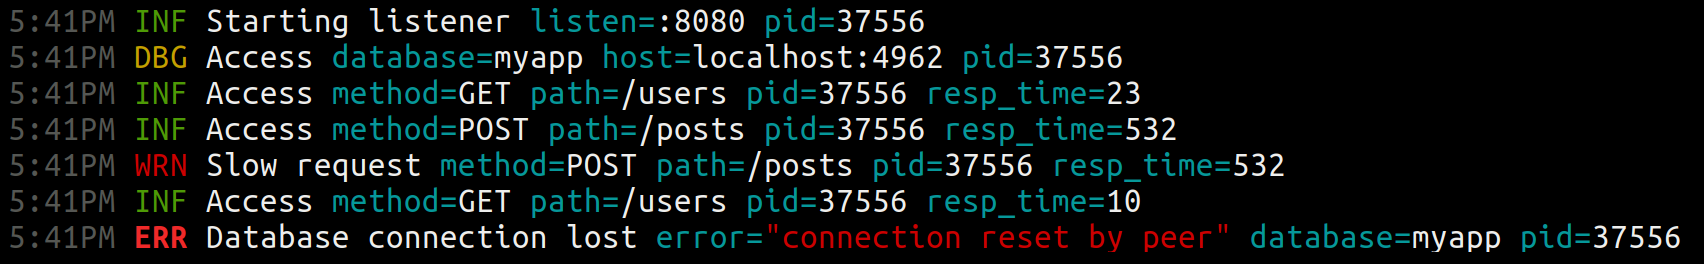
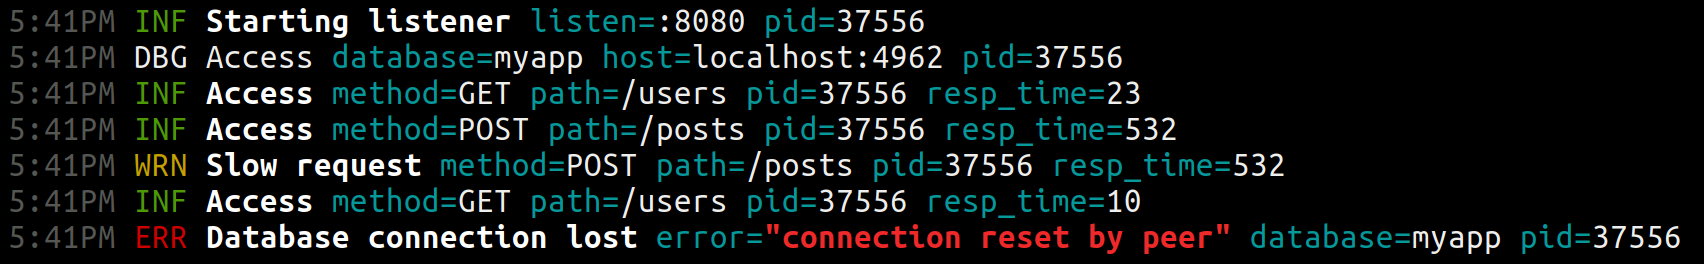
Make console output more readable. (#597)

diff --git a/console.go b/console.go
@@ -281,7 +281,7 @@ func (w ConsoleWriter) writePart(buf *bytes.Buffer, evt map[string]interface{}, 
 		}
 	case MessageFieldName:
 		if w.FormatMessage == nil {
-			f = consoleDefaultFormatMessage
+			f = consoleDefaultFormatMessage(w.NoColor, evt[LevelFieldName])
 		} else {
 			f = w.FormatMessage
 		}
@@ -389,21 +389,21 @@ func consoleDefaultFormatLevel(noColor bool) Formatter {
 		if ll, ok := i.(string); ok {
 			switch ll {
 			case LevelTraceValue:
-				l = colorize("TRC", colorMagenta, noColor)
+				l = colorize("TRC", LevelColors["TRC"], noColor)
 			case LevelDebugValue:
-				l = colorize("DBG", colorYellow, noColor)
+				l = colorize("DBG", LevelColors["DBG"], noColor)
 			case LevelInfoValue:
-				l = colorize("INF", colorGreen, noColor)
+				l = colorize("INF", LevelColors["INF"], noColor)
 			case LevelWarnValue:
-				l = colorize("WRN", colorRed, noColor)
+				l = colorize("WRN", LevelColors["WRN"], noColor)
 			case LevelErrorValue:
-				l = colorize(colorize("ERR", colorRed, noColor), colorBold, noColor)
+				l = colorize("ERR", LevelColors["ERR"], noColor)
 			case LevelFatalValue:
-				l = colorize(colorize("FTL", colorRed, noColor), colorBold, noColor)
+				l = colorize("FTL", LevelColors["FTL"], noColor)
 			case LevelPanicValue:
-				l = colorize(colorize("PNC", colorRed, noColor), colorBold, noColor)
+				l = colorize("PNC", LevelColors["PNC"], noColor)
 			default:
-				l = colorize(ll, colorBold, noColor)
+				l = strings.ToUpper(ll)[0:3]
 			}
 		} else {
 			if i == nil {
@@ -434,11 +434,18 @@ func consoleDefaultFormatCaller(noColor bool) Formatter {
 	}
 }
 
-func consoleDefaultFormatMessage(i interface{}) string {
-	if i == nil {
-		return ""
+func consoleDefaultFormatMessage(noColor bool, level interface{}) Formatter {
+	return func(i interface{}) string {
+		if i == nil || i == "" {
+			return ""
+		}
+		switch level {
+		case LevelInfoValue, LevelWarnValue, LevelErrorValue, LevelFatalValue, LevelPanicValue:
+			return colorize(fmt.Sprintf("%s", i), colorBold, noColor)
+		default:
+			return fmt.Sprintf("%s", i)
+		}
 	}
-	return fmt.Sprintf("%s", i)
 }
 
 func consoleDefaultFormatFieldName(noColor bool) Formatter {
@@ -459,6 +466,6 @@ func consoleDefaultFormatErrFieldName(noColor bool) Formatter {
 
 func consoleDefaultFormatErrFieldValue(noColor bool) Formatter {
 	return func(i interface{}) string {
-		return colorize(fmt.Sprintf("%s", i), colorRed, noColor)
+		return colorize(colorize(fmt.Sprintf("%s", i), colorBold, noColor), colorRed, noColor)
 	}
 }

diff --git a/console_test.go b/console_test.go
@@ -97,7 +97,7 @@ func TestConsoleWriter(t *testing.T) {
 			t.Errorf("Unexpected error when writing output: %s", err)
 		}
 
-		expectedOutput := "\x1b[90m<nil>\x1b[0m \x1b[31mWRN\x1b[0m Foobar\n"
+		expectedOutput := "\x1b[90m<nil>\x1b[0m \x1b[33mWRN\x1b[0m \x1b[1mFoobar\x1b[0m\n"
 		actualOutput := buf.String()
 		if actualOutput != expectedOutput {
 			t.Errorf("Unexpected output %q, want: %q", actualOutput, expectedOutput)
@@ -248,7 +248,7 @@ func TestConsoleWriter(t *testing.T) {
 			t.Errorf("Unexpected error when writing output: %s", err)
 		}
 
-		expectedOutput := "\x1b[90m<nil>\x1b[0m \x1b[31mWRN\x1b[0m Foobar \x1b[36mfoo=\x1b[0mbar\n"
+		expectedOutput := "\x1b[90m<nil>\x1b[0m \x1b[33mWRN\x1b[0m \x1b[1mFoobar\x1b[0m \x1b[36mfoo=\x1b[0mbar\n"
 		actualOutput := buf.String()
 		if actualOutput != expectedOutput {
 			t.Errorf("Unexpected output %q, want: %q", actualOutput, expectedOutput)

diff --git a/globals.go b/globals.go
@@ -108,6 +108,18 @@ var (
 	// DefaultContextLogger is returned from Ctx() if there is no logger associated
 	// with the context.
 	DefaultContextLogger *Logger
+
+	// LevelColors are used by ConsoleWriter's consoleDefaultFormatLevel to color
+	// log levels.
+	LevelColors = map[string]int{
+		"TRC": colorBlue,
+		"DBG": 0,
+		"INF": colorGreen,
+		"WRN": colorYellow,
+		"ERR": colorRed,
+		"FTL": colorRed,
+		"PNC": colorRed,
+	}
 )
 
 var (
